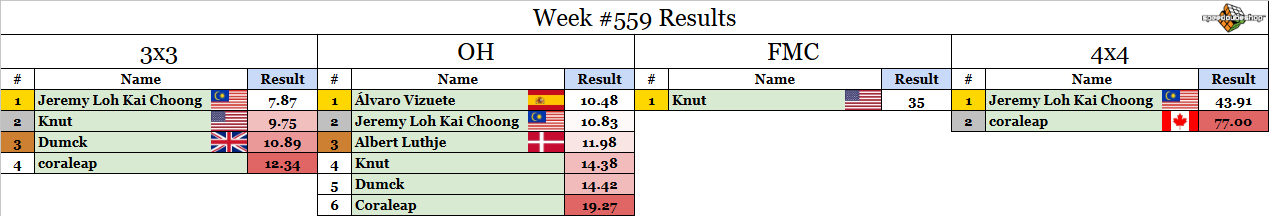
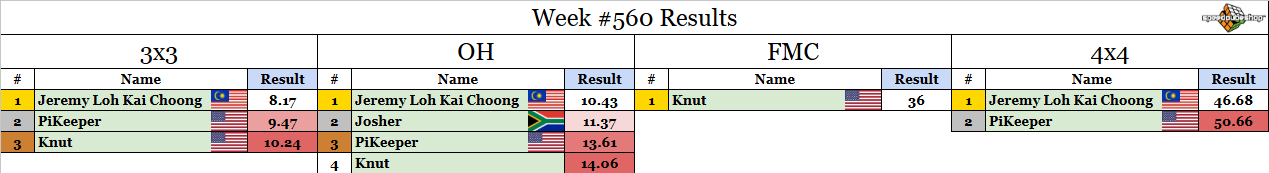
weekly comp update

diff --git a/src/weeklycomp/post.md b/src/weeklycomp/post.md
@@ -3,7 +3,7 @@
  This weekly competition is proudly sponsored by SpeedCubeShop.com 
  One competitor will be selected at random to receive a $5 SCS gift card! 
  
- Congrats to last week's winner by a random draw: **Albert Luthje**. DM me for the prize. 
+ Congrats to last week's winner by a random draw: **PiKeeper**. DM me for the prize. 
  
  Check whether or not you participated this week yet at [https://bit.ly/RMSWeeklyCompSummary](https://bit.ly/RMSWeeklyCompSummary)  
  
@@ -17,29 +17,28 @@
  7. The comp runs until Sunday 5pm Eastern time (more or less). Enter your times using the forms links below. 
  
 ### 3x3: [Submission Form](https://forms.gle/H5xoCWvGKnZ92fQt8) 
- 1. D' F' L' F2 U2 L2 F2 R' U2 L B2 R F2 D2 U' R' B F R' B' U 
- 2. F' U2 F2 L2 F U2 L2 D2 F2 R2 F' D R' U' B2 L R F' L2 R U 
- 3. D' R B' R' D B U B U2 R2 F2 U2 B' D2 B D2 L2 F2 R U' 
- 4. U' L2 B2 L2 D' R2 U2 B2 D' F2 L2 F D2 F' R' B F U' B2 L B' 
- 5. U F2 U2 R2 D' B2 R2 U L2 D2 L2 R F' D R2 D2 U L2 R' B 
+ 1. F' L' D L2 F2 D B' R U B2 D' L2 F2 D L2 U' R2 U2 F2 R2 
+ 2. F2 L2 B D' L' F U R' B D2 B2 L' U2 L' D2 L2 F2 R' U2 D2 
+ 3. F' U' F' L2 F' R2 D2 L2 B2 D2 F D2 U L B D2 F' L' B2 
+ 4. F U D B2 R2 F' U2 L' F' D2 B2 U2 R2 B2 R B2 L' F2 U2 L2 
+ 5. U2 R2 B' D2 R2 B L2 R2 D2 F2 U R2 B2 L R2 F U L D 
  
 ### OH: [Submission Form](https://forms.gle/UgRLW3K1d5KkMGfM9) 
- 1. L2 U2 B2 U2 F2 L2 U R2 U' L2 B L' F2 L' U' L F R U2 F L2 
- 2. B2 D' F2 D2 L' D2 L2 U2 R B2 F2 R B2 D2 B' R F2 U' R B' L 
- 3. F L B U2 F2 B L F2 U' R2 D L2 U2 R2 L2 B2 R2 F2 D2 R' 
- 4. L B2 R2 D' L2 U' F2 L2 B2 F2 D2 F2 L F U' L2 R' B L U' B2 
- 5. U' B2 U' B2 F2 U' F2 R2 B2 U B2 D2 R B L R' D2 B2 U' L F2 
+ 1. L2 U2 R2 B U2 B R2 B2 F L2 F R2 U' R' U2 R' B' R' D2 L U2 
+ 2. F2 U2 D' F' U D2 B R' F D R2 D2 B2 R' B2 U2 B2 D2 R2 D2 L 
+ 3. R D' F2 R F2 L2 R' U2 R' U2 B2 D2 L U2 F' U' L D2 B' R2 U2 
+ 4. D R' L2 D2 B' D' L' U2 B U B2 L2 D2 F2 U2 D' L2 B2 L2 
+ 5. D2 B' L2 U2 F2 D' L2 B2 U2 L2 B2 D' R2 L U2 R' F' R' D' B' 
  
 ### FMC: [Submission Form](https://forms.gle/1P9VUgZmA1pibwvL9) 
- 1. R' U' F B2 L' U2 F2 D2 U2 F2 L U2 L' F2 L2 U B F' L' U' R' B2 U2 F R' U' F 
+ 1. R' U' F B' U F' L D B R U B' L2 F' D2 F L2 F D2 L2 U2 B' D2 R' U' F 
  
 ### 4x4: [Submission Form](https://forms.gle/bHNjncvEcPvFWBP2A) 
- 1. R' B2 R' F2 L D2 F2 R' B2 L2 F2 D2 F' L' U D2 F B U2 R2 Uw2 L B' Uw2 Fw2 R B2 Rw2 F' R2 B R Uw' B' U' R D' Rw B2 Uw' L2 U' B2 Fw 
- 2. L2 U2 F' B2 R2 B2 D B' R U2 L' F2 B2 L' D2 L D2 L' U2 D' Fw2 D' L' Fw2 Uw2 Rw2 F2 U Rw2 Fw2 L F2 B2 Fw' Rw2 B U2 B2 Uw Fw' L Fw2 U' R' L Rw 
- 3. U B U2 F D2 R2 F2 B R2 U' F' R' L' F L D' F Rw2 F Fw2 Rw2 B2 D F2 L2 F U' D' Fw2 D' Rw' D' F2 Rw' D2 L' Uw B' Fw' Uw R' B U2 
- 4. U' D' F' B2 L2 U' L' F2 B R2 U2 F' D2 F R2 D2 B2 U2 D' F2 Uw2 L F' B2 Fw2 R' L' Fw2 R' U2 D2 Uw' L2 F2 D' Uw B2 Fw' R Rw' B2 U Rw' Fw' 
- 5. U' L2 D' R2 U' B2 D R2 U' F2 B2 U F' D' R D' B2 R' U R' F Fw2 U Uw2 Rw2 U R B2 L' U Fw2 R2 U Fw' R' F' D Fw R2 U Rw' D2 Fw L2 Fw2 R2 
+ 1. U2 D F' R2 U2 F D2 R2 L2 F2 L2 U2 F' R' U' B2 D L2 U L2 Fw2 U' Uw2 F2 U' L' U' Uw2 Fw2 R D2 L' Fw' R B D2 L' F Rw D2 F' Rw Fw2 Uw' R' 
+ 2. F' R2 F2 B L2 F2 R2 U2 F B' U2 L' F' U' D' L U2 F R2 D' F' Uw2 B R' Uw2 L U2 B' Fw2 R U2 L Uw' Fw2 U2 R' B D2 L Fw Rw Fw2 U2 F2 Fw 
+ 3. F2 L F2 L2 U2 R2 U2 D2 F' L2 B2 D2 F L D' B L' U' B' D2 B Uw2 Rw2 U' B' L2 B2 D F2 Rw2 D' Uw2 B Uw2 R F Rw' F Uw' B2 Rw' F2 D' L Uw2 
+ 4. D2 L2 F2 D2 B2 D' F2 U R2 F2 U B' L D2 R2 B' R' L F' D Uw2 F' R2 Fw2 D2 L B L2 Uw2 B' U2 B' U' Uw' F U' Fw2 Uw Fw2 U' Rw F' Uw Fw Rw 
+ 5. R2 B' D2 F2 D2 R2 F' D2 L2 F U L' B U2 D F R' B U2 R Uw2 B2 L Uw2 F L U2 Rw2 D2 Rw2 Fw2 L F2 Uw' R U L2 U Rw' Fw2 Uw' Fw Uw' R2 D' 
  
 ### Winning FMC solutions from last week: 
- 1. Knut, 35 moves: [SOLUTION](https://bit.ly/4pc3LSs)
- 
+ 1. Knut, 36 moves: [SOLUTION](https://bit.ly/3Kjmn3T)
